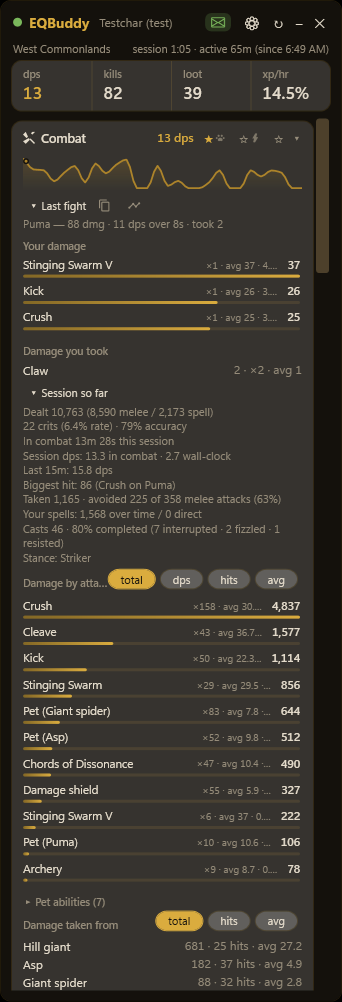
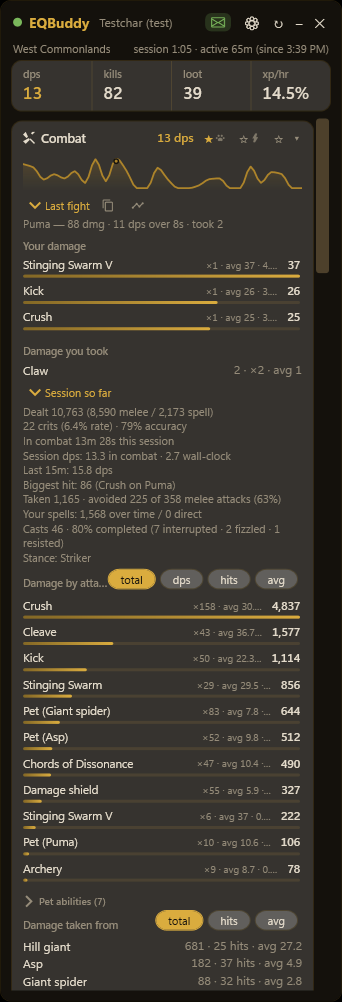
Gate 5c: MainWindow.xaml is glyph-clean, and folds get a real chevron
Step 2 of the planned remainder. Every glyph outside a comment is gone from
MainWindow.xaml: two menu headers, a tooltip, the Procs heading, and the seven
fold chevrons.

EqFoldLabel is the chevron-plus-words heading. It had to exist rather than
converting the XAML in place: four of those chevrons were the INITIAL content in
XAML and the rest were re-typed in code on every refresh, so converting the
markup alone would have had the first repaint put the glyph straight back.
The chevron survives as a chevron — it is the only thing on the row saying
whether a click opens or closes, so dropping it with the glyph would have taken
an affordance away rather than tidied one.

Two things the screenshot caught that nothing else could:

  * Replacing the SectionLabel-styled TextBlocks lost the heading look entirely
    — Pet abilities and All AA abilities rendered as body text, bigger and
    brighter than every other heading. A diff shows a tidy conversion.
  * The first fix for THAT looked right and did nothing:
    Application.TryFindResource inside a property setter runs while XAML is
    parsing, before the control is in a tree, and silently returns null. Trap 19.
    It is expressed in DesignTokens now instead of borrowing Theme.xaml's style,
    which is the migration doing its job — SectionLabel's 10.5px is not on the
    scale and Metadata is.

Also fixed the comment detection I added in the previous commit: XML comments
[…]

diff --git a/src/EQBuddy/MainWindow.xaml b/src/EQBuddy/MainWindow.xaml
@@ -26,7 +26,7 @@
                 <Separator/>
                 <!-- First in the windows list because it is the one you reach for at the
                      start of a session, not a setting you visit once. -->
-                <MenuItem x:Name="MobileMenuItem" Header="📱 EQBuddy Mobile (Beta)…" Click="OnCompanion"
+                <MenuItem x:Name="MobileMenuItem" Header="EQBuddy Mobile (Beta)…" Click="OnCompanion"
                           ToolTip="Show EQBuddy on a phone or tablet on your Wi-Fi — scan the code, pick which windows that device shows. LAN-only; nothing leaves your network."/>
                 <MenuItem Header="Zone map…" Click="OnZoneMap"
                           ToolTip="Your zone's map with your last /log position — type /loc in game to update the marker"/>
@@ -47,10 +47,10 @@
                 <MenuItem Header="Data &amp; imports">
                     <MenuItem Header="Import achievements…" Click="OnImportAchievements"
                               ToolTip="Read the game's /outputfile achievements dump and pre-mark Sky quest rewards (and raid clears) you completed before EQBuddy — preview first, adds only, never unticks"/>
-                    <MenuItem Header="⧉ Copy /outputfile achievements" Click="OnCopyAchievementsCommand"
+                    <MenuItem Header="Copy /outputfile achievements" Click="OnCopyAchievementsCommand"
                               ToolTip="Puts the command on your clipboard — paste it into the game's chat, the game writes its achievements dump, then Import achievements… reads it"/>
                     <MenuItem x:Name="ReviewLogItem" Header="Review an archived log…" Click="OnReviewLog"
-                              ToolTip="Replay a saved log read-only — Drops by Creature and ✦ Copy for wiki work against that session"/>
+                              ToolTip="Replay a saved log read-only — Drops by Creature and Copy for wiki work against that session"/>
                     <MenuItem x:Name="ChooseLogFolderItem" Header="Choose log folder…" Click="OnChooseLogFolder"/>
                     <MenuItem Header="Auto-detect log folder" Click="OnAutoDetectLogFolder"/>
                 </MenuItem>
@@ -282,8 +282,10 @@
                          nothing about whether this pull is going badly. -->
                     <StackPanel Orientation="Horizontal">
                         <Button x:Name="CombatFightLabel" Style="{StaticResource IconButton}" FontSize="11"
-                                HorizontalAlignment="Left" Content="▾ Last fight" Visibility="Collapsed"
-                                Foreground="{DynamicResource AccentBrush}" Click="OnToggleCombatFight"/>
+                                HorizontalAlignment="Left" Visibility="Collapsed"
+                                Foreground="{DynamicResource AccentBrush}" Click="OnToggleCombatFight">
+                            <local:EqFoldLabel Text="Last fight" Ink="AccentBrush"/>
+                        </Button>
                         <Button x:Name="CombatFightCopy" Style="{StaticResource IconButton}"
                                 Margin="{DynamicResource GapS}" Visibility="Collapsed"
                                 Click="OnCopyFight"
@@ -310,8 +312,10 @@
                         <ItemsControl x:Name="CombatFightInList" Margin="0,2,0,4"/>
                     </StackPanel>
                     <Button x:Name="CombatSessionLabel" Style="{StaticResource IconButton}" FontSize="11"
-                            HorizontalAlignment="Left" Content="▾ Session so far"
-                            Foreground="{DynamicResource AccentBrush}" Click="OnToggleCombatSession"/>
+                            HorizontalAlignment="Left"
+                            Foreground="{DynamicResource AccentBrush}" Click="OnToggleCombatSession">
+                        <local:EqFoldLabel Text="Session so far" Ink="AccentBrush"/>
+                    </Button>
                     <StackPanel x:Name="CombatSessionBody">
                     <TextBlock x:Name="CombatSummary" Style="{StaticResource Dim}" TextWrapping="Wrap" Margin="0,2,0,4"/>
                     <Grid>
@@ -325,7 +329,8 @@
                         <StackPanel Grid.Column="1" x:Name="DmgOutSortBar" Orientation="Horizontal"/>
                     </Grid>
                     <ItemsControl x:Name="DamageSourceList" Margin="0,2,0,4"/>
-                    <TextBlock x:Name="PetAbilityLabel" Text="▸ Pet abilities" Style="{StaticResource SectionLabel}" Visibility="Collapsed"
+                    <local:EqFoldLabel x:Name="PetAbilityLabel" Text="Pet abilities" Open="False"
+                               Section="True" Margin="0,6,0,2" Visibility="Collapsed"
                                Cursor="Hand" MouseLeftButtonDown="OnPetAbilitiesToggled"
                                ToolTip="What your pet is using, split out of its Pet row above — click to expand"/>
                     <ItemsControl x:Name="PetAbilityList" Margin="0,2,0,4" Visibility="Collapsed"/>
@@ -344,7 +349,7 @@
                     <ItemsControl x:Name="RecentFightsList" Margin="0,2,0,4"/>
                     <TextBlock x:Name="AreaSpellLabel" Text="Area spells (per cast)" Style="{StaticResource SectionLabel}" Visibility="Collapsed"/>
                     <ItemsControl x:Name="AreaSpellList" Margin="0,2,0,4"/>
-                    <TextBlock x:Name="ProcLabel" Text="⚡ Procs" Style="{StaticResource SectionLabel}" Visibility="Collapsed"
+                    <local:EqCardTitle x:Name="ProcLabel" Icon="Bolt" Text="Procs" Visibility="Collapsed"
                                ToolTip="Spell damage that fired without a cast — weapon procs, poisons, item effects. Rate is per minute of combat, the same denominator as DPS."/>
                     <ItemsControl x:Name="ProcList" Margin="0,2,0,4"/>
                     <TextBlock x:Name="StanceLabel" Text="By stance" Style="{StaticResource SectionLabel}" Visibility="Collapsed"/>
@@ -371,16 +376,20 @@
                 </Expander.Header>
                 <StackPanel>
                     <Button x:Name="HealFightLabel" Style="{StaticResource IconButton}" FontSize="11"
-                            HorizontalAlignment="Left" Content="▾ Last fight" Visibility="Collapsed"
-                            Foreground="{DynamicResource AccentBrush}" Click="OnToggleHealFight"/>
+                            HorizontalAlignment="Left" Visibility="Collapsed"
+                            Foreground="{DynamicResource AccentBrush}" Click="OnToggleHealFight">
+                        <local:EqFoldLabel Text="Last fight" Ink="AccentBrush"/>
+                    </Button>
                     <StackPanel x:Name="HealFightBody" Visibility="Collapsed">
                         <TextBlock x:Name="HealFightText" Style="{StaticResource Dim}" TextWrapping="Wrap"
                                    Margin="0,1,0,2"/>
                         <ItemsControl x:Name="HealFightList" Margin="0,0,0,4"/>
                     </StackPanel>
                     <Button x:Name="HealSessionLabel" Style="{StaticResource IconButton}" FontSize="11"
-                            HorizontalAlignment="Left" Content="▾ Session so far"
-                            Foreground="{DynamicResource AccentBrush}" Click="OnToggleHealSession"/>
+                            HorizontalAlignment="Left"
+                            Foreground="{DynamicResource AccentBrush}" Click="OnToggleHealSession">
+                        <local:EqFoldLabel Text="Session so far" Ink="AccentBrush"/>
+                    </Button>
                     <StackPanel x:Name="HealSessionBody">
                     <TextBlock x:Name="HealingSummary" Style="{StaticResource Dim}" TextWrapping="Wrap" Margin="0,2,0,4"/>
                     <Grid>
@@ -613,7 +622,8 @@
                     <TextBlock x:Name="AaNewLabel" Text="AA learned this session" Style="{StaticResource SectionLabel}" Margin="0,4,0,0"
                                Visibility="Collapsed"/>
                     <ItemsControl x:Name="AaNewList" Margin="0,2,0,0" Visibility="Collapsed"/>
-                    <TextBlock x:Name="AaAbilitiesLabel" Text="▸ All AA abilities" Style="{StaticResource SectionLabel}" Margin="0,4,0,0"
+                    <local:EqFoldLabel x:Name="AaAbilitiesLabel" Text="All AA abilities" Open="False"
+                               Section="True" Margin="0,4,0,0"
                                Visibility="Collapsed" Cursor="Hand" MouseLeftButtonDown="OnAaAllToggled"
                                ToolTip="Everything the log's history (plus the durable ledger) says this character owns — click to expand or fold"/>
                     <ItemsControl x:Name="AaAbilityList" Margin="0,2,0,0" Visibility="Collapsed"/>

diff --git a/src/EQBuddy/EqFoldLabel.cs b/src/EQBuddy/EqFoldLabel.cs
@@ -1,0 +1,108 @@
+using System.Windows;
+using System.Windows.Controls;
+using EQBuddy.UI.Shared;
+
+namespace EQBuddy;
+
+/// <summary>
+/// A fold's heading: a chevron that points down when it is open and right when it is
+/// shut, followed by the label (Gate 5c).
+///
+/// The widget had seven of these and every one of them typed "▾" or "▸" into a string —
+/// four in XAML as the initial content, and the rest re-typed in code on every refresh.
+/// So converting the XAML alone would have been worse than leaving it: the first repaint
+/// would put the glyph straight back.
+///
+/// The chevron is the AFFORDANCE, not decoration — it is the only thing on the row that
+/// says whether clicking will open or close it — so it survives the conversion as a
+/// chevron rather than being dropped with the glyph.
+///
+/// Usable as a <see cref="ContentControl.Content"/> (the fold buttons) or as a control in
+/// its own right (the section labels), which is why it is a panel rather than a style.
+/// </summary>
+internal sealed class EqFoldLabel : StackPanel
+{
+    private readonly EqIcon _chevron;
+    private readonly TextBlock _label;
+
+    public EqFoldLabel()
+    {
+        Orientation = Orientation.Horizontal;
+        // Safe as a StackPanel: a fold heading is a few words that never wrap, so the
+        // infinite-width measure that clips wrapping text (trap 14) cannot bite. Put
+        // WRAPPING text beside an icon and it must be a two-column Grid instead.
+        _chevron = new EqIcon
+        {
+            Glyph = "ChevronDown",
+            Size = DesignTokens.IconInline,
+            VerticalAlignment = VerticalAlignment.Center,
+            Margin = new Thickness(0, 0, DesignTokens.SpaceXs, 0),
+        };
+        Children.Add(_chevron);
+        _label = new TextBlock { VerticalAlignment = VerticalAlignment.Center };
+        Children.Add(_label);
+    }
+
+    /// <summary>Open folds point down, shut folds point right.</summary>
+    public bool Open
+    {
+        get;
+        set { field = value; _chevron.Glyph = value ? "ChevronDown" : "ChevronRight"; }
+    } = true;
+
+    public string Text
+    {
+        get => _label.Text;
+        set => _label.Text = value;
+    }
+
+    /// <summary>A <see cref="ThemePalettes"/> key applied to BOTH halves, so the chevron
+    /// cannot end up a different colour from the words beside it.</summary>
+    public string Ink
+    {
+        get;
+        set
+        {
+            field = value;
+            _chevron.Ink = value;
+            _label.SetResourceReference(TextBlock.ForegroundProperty, value);
+        }
+    } = "TextBrush";
+
+    /// <summary>Wear the folded-section heading look rather than body text.
+    ///
+    /// The Pet-abilities and All-AA headings were `Style="{StaticResource SectionLabel}"`
+    /// TextBlocks; converting them to this control without carrying that over rendered
+    /// them as plain body text — bigger, brighter, no longer reading as a heading.
+    /// Invisible in a diff, obvious in a screenshot, and it took two goes because a
+    /// direct resource lookup in a property setter runs before the control is in a tree.
+    ///
+    /// So it is expressed in TOKENS instead of by borrowing Theme.xaml's style: that is
+    /// the migration doing its job. <c>SectionLabel</c> is 10.5px, which is not on the
+    /// scale — <see cref="DesignTokens.TypeRole.Metadata"/> is, and this heading is
+    /// metadata about the list under it.</summary>
+    public bool Section
+    {
+        get;
+        set
+        {
+            field = value;
+            if (!value) return;
+            var spec = DesignTokens.Spec(DesignTokens.TypeRole.Metadata);
+            _label.FontSize = spec.Size;
+            _label.FontWeight = FontWeights.SemiBold;
+            _label.SetResourceReference(TextBlock.ForegroundProperty, "DimBrush");
+            // The chevron follows the words, or a dim heading grows a bright arrow.
+            _chevron.Ink = "DimBrush";
+            _chevron.Size = DesignTokens.IconInline;
+        }
+    }
+
+    /// <summary>Set both at once — the shape every call site actually wants, and the one
+    /// that makes "open" and the words impossible to disagree.</summary>
+    public void Set(bool open, string text)
+    {
+        Open = open;
+        Text = text;
+    }
+}

diff --git a/src/EQBuddy/MainWindow.xaml.cs b/src/EQBuddy/MainWindow.xaml.cs
@@ -2381,9 +2381,9 @@ public partial class MainWindow : Window, ICardContext
             // class drowning in rows): the pet's overall damage is already a row in the
             // list above; the per-ability split is a click away.
             PetAbilityLabel.Visibility = s.PetAbilities.Count > 0 ? Visibility.Visible : Visibility.Collapsed;
-            PetAbilityLabel.Text = _settings.ShowPetAbilities
-                ? "▾ Pet abilities"
-                : $"▸ Pet abilities ({s.PetAbilities.Count})";
+            PetAbilityLabel.Set(_settings.ShowPetAbilities, _settings.ShowPetAbilities
+                ? "Pet abilities"
+                : $"Pet abilities ({s.PetAbilities.Count})");
             PetAbilityList.Visibility = _settings.ShowPetAbilities ? Visibility.Visible : Visibility.Collapsed;
             if (_settings.ShowPetAbilities)
                 FillBreakdown(PetAbilityList, s.PetAbilities, _dmgOutSort, s.CombatSeconds, "dps");
@@ -2509,9 +2509,9 @@ public partial class MainWindow : Window, ICardContext
                     (a.Name, a.Rank > 1 ? $"rank {a.Rank}" : "")),
                 tooltip: name => AaCatalog.Find(name)?.Effect);
             AaAbilitiesLabel.Visibility = s.AaAbilities.Count > 0 ? Visibility.Visible : Visibility.Collapsed;
-            AaAbilitiesLabel.Text = _settings.ShowAllAAs
-                ? "▾ All AA abilities"
-                : $"▸ All AA abilities ({s.AaAbilities.Count})";
+            AaAbilitiesLabel.Set(_settings.ShowAllAAs, _settings.ShowAllAAs
+                ? "All AA abilities"
+                : $"All AA abilities ({s.AaAbilities.Count})");
             AaAbilityList.Visibility = _settings.ShowAllAAs ? Visibility.Visible : Visibility.Collapsed;
             if (_settings.ShowAllAAs)
                 FillList(AaAbilityList, s.AaAbilities.Select(a =>
@@ -3187,7 +3187,8 @@ public partial class MainWindow : Window, ICardContext
         body.Visibility = open ? Visibility.Visible : Visibility.Collapsed;
         // "Current" while it's still running, so a duration that keeps growing reads as
         // in-progress rather than as a fight that took a suspiciously long time.
-        label.Content = $"{(open ? "▾" : "▸")} {(f.InProgress ? "Current fight" : "Last fight")}";
+        if (label.Content is EqFoldLabel fold)
+            fold.Set(open, f.InProgress ? "Current fight" : "Last fight");
         if (!open) return;
 
         // Rates within the fight use the fight's own length, not session combat time —
@@ -3243,9 +3244,9 @@ public partial class MainWindow : Window, ICardContext
     /// <summary>Session bodies are plain show/hide — their content is filled elsewhere.</summary>
     private void ApplySessionSubsections()
     {
-        CombatSessionLabel.Content = (_settings.ShowCombatSession ? "▾" : "▸") + " Session so far";
+        if (CombatSessionLabel.Content is EqFoldLabel cs) cs.Open = _settings.ShowCombatSession;
         CombatSessionBody.Visibility = _settings.ShowCombatSession ? Visibility.Visible : Visibility.Collapsed;
-        HealSessionLabel.Content = (_settings.ShowHealSession ? "▾" : "▸") + " Session so far";
+        if (HealSessionLabel.Content is EqFoldLabel hs) hs.Open = _settings.ShowHealSession;
         HealSessionBody.Visibility = _settings.ShowHealSession ? Visibility.Visible : Visibility.Collapsed;
     }
 

diff --git a/tests/EQBuddy.Tests/DesignRatchetTests.cs b/tests/EQBuddy.Tests/DesignRatchetTests.cs
@@ -137,9 +137,21 @@ public class DesignRatchetTests
         const string allowed = "·×→←≤≥…‑–—’‘“”";
         var offences = new List<string>();
         var lines = File.ReadAllLines(Path.Combine(SrcRoot, relativePath));
+        var inXmlComment = false;
         for (var i = 0; i < lines.Length; i++)
         {
-            if (IsComment(lines[i])) continue;
+            // XML comments span lines, and only the FIRST carries "<!--". Tracking the
+            // block matters: MainWindow.xaml's comments run several lines each and their
+            // continuations were being counted as offences, which inflates the number a
+            // migration is measured against and hides the real ones among them.
+            var line = lines[i];
+            var opens = line.Contains("<!--", StringComparison.Ordinal);
+            var closes = line.Contains("-->", StringComparison.Ordinal);
+            var wasInComment = inXmlComment;
+            if (opens && !closes) inXmlComment = true;
+            else if (closes) inXmlComment = false;
+            if (wasInComment || opens) continue;
+            if (IsComment(line)) continue;
             foreach (var rune in lines[i].EnumerateRunes())
             {
                 var value = rune.Value;
@@ -159,10 +171,12 @@ public class DesignRatchetTests
             Environment.NewLine + string.Join(Environment.NewLine, offences));
     }
 
-    /// <summary>A whole-line comment, in either language. Deliberately conservative: only
-    /// lines that OPEN as a comment count, so a glyph in trailing code before a `//` is
-    /// still caught. A mid-line trailing comment is the one case this over-reports, and
-    /// over-reporting is the safe direction for a ratchet.</summary>
+    /// <summary>A whole-line C#-style comment. XML comment BLOCKS are tracked separately
+    /// by the caller, because they span lines and only the first carries the marker.
+    ///
+    /// Deliberately conservative: only lines that OPEN as a comment count, so a glyph in
+    /// trailing code before a `//` is still caught. A mid-line trailing comment is the
+    /// one case this over-reports, and over-reporting is the safe direction.</summary>
     private static bool IsComment(string line)
     {
         var t = line.TrimStart();

diff --git a/SCRIBE.md b/SCRIBE.md
@@ -16,6 +16,24 @@ After you take items, write a short note in `SCRIBE-FEEDBACK.md` so Scribe can l
 
 ---
 
+### Mobile Sky stuck on Ready
+- **Priority:** must-fix (mobile/desktop parity)
+- **Place:** Gate 2 already carries the Sky state filter on desktop. This is the phone falling behind that restore, not a new direction.
+- **Source:** #212 bjstrange (Aug 18, 3:46 PM CT) + screenshot. Report is enough.
+- **Ask:** Mobile Sky quest "only appears to show ready items with no way to change that." Nothing searchable or changeable.
+- **Already shipped:** Desktop #205 any/open/ready/done filter restored (Claude's reply, claimed in 1.93.0). Do not assert Mobile source without a quote.
+- **Where it might live:** hypothesis — the same shared Sky/Epic state filter desktop just got back, if Mobile already reads that model.
+
+### Token/primary unlock ticks Sky as quested
+- **Priority:** waiting (Claude asked wizen for a quested vs token achievements export pair)
+- **Place:** Sky/Epic checklist accuracy (the quest chain). Not Gate 5 UI.
+- **Source:** #193 wizen follow-up; new corroboration n3cr0nk1tt3n Aug 18, 4:35 PM CT. Did not reply — old thread, already answered.
+- **Ask (wizen):** Bought Primary Class Unlock tokens; EQBuddy treats Bard obtain-steps as completed because the achievements file marks them `C`. "unlocking one or two and intending on questing for the rest." Minimal suggestion: a per-class Unlocked (didn't quest it) switch.
+- **n3cr0nk1tt3n:** "The Achievement window counts your primary class (or unlocked with a Primary Class Token) as complete without actually doing the turn ins, which might confuse the tracker as well."
+- **Already shipped:** original empty-filter false-tick fixed in 1.88.4. Claude already asked for side-by-side files.
+- **Where it might live:** hypothesis — the bypass line in wizen's paste (`C This achievement can be bypassed using a Primary Class Unlock Token`) vs a quested file. Do not match on one person's file.
+
+
 ### Avalonia has no Watch or Loot breakout window
 - **Source:** found while converting breakout chrome, 2026-08-18. Not reported by anyone.
 - **Evidence:** `BreakoutKind` is declared twice and the two do not agree —

diff --git a/CLAUDE.md b/CLAUDE.md
@@ -319,6 +319,14 @@ Read this list before touching the areas it names. Every entry cost a release.
     Zero for a string you can see in the source means `rm -rf src/EQBuddy/obj src/EQBuddy/bin`
     and rebuild — not a redesign.
 
+19. **A resource lookup inside a property setter runs before the control is in a tree.**
+    `EqFoldLabel.LabelStyle` did `Application.Current.TryFindResource("SectionLabel")` and
+    silently got nothing while XAML was parsing, so two folded-section headings rendered
+    as body text — bigger and brighter than every other heading, with no error anywhere.
+    → Use `SetResourceReference`, which resolves on load and survives a theme swap, or
+    express the look in `DesignTokens` and skip the lookup. Only the screenshot said
+    anything was wrong, and it took two attempts because the first fix looked right.
+
 ## Tooling notes that cost time when ignored
 
 - **`pwsh -NoProfile -File scripts/status.ps1`** answers "where did we leave off?" in one

diff --git a/HANDOFF.md b/HANDOFF.md
@@ -1,7 +1,7 @@
 # EQBuddy — handoff
 
 **Don't re-derive the codebase.** `CLAUDE.md` loads automatically and carries the commands,
-the non-negotiable rules, the where-things-live index, the trap list (18) and the
+the non-negotiable rules, the where-things-live index, the trap list (19) and the
 surface-allocation rule. `docs/Architecture.md` and `docs/TestPlan.md` sit behind it, and
 `DocumentationTests` fails the build if any go stale. Start with
 `pwsh -NoProfile -File scripts/status.ps1`.
